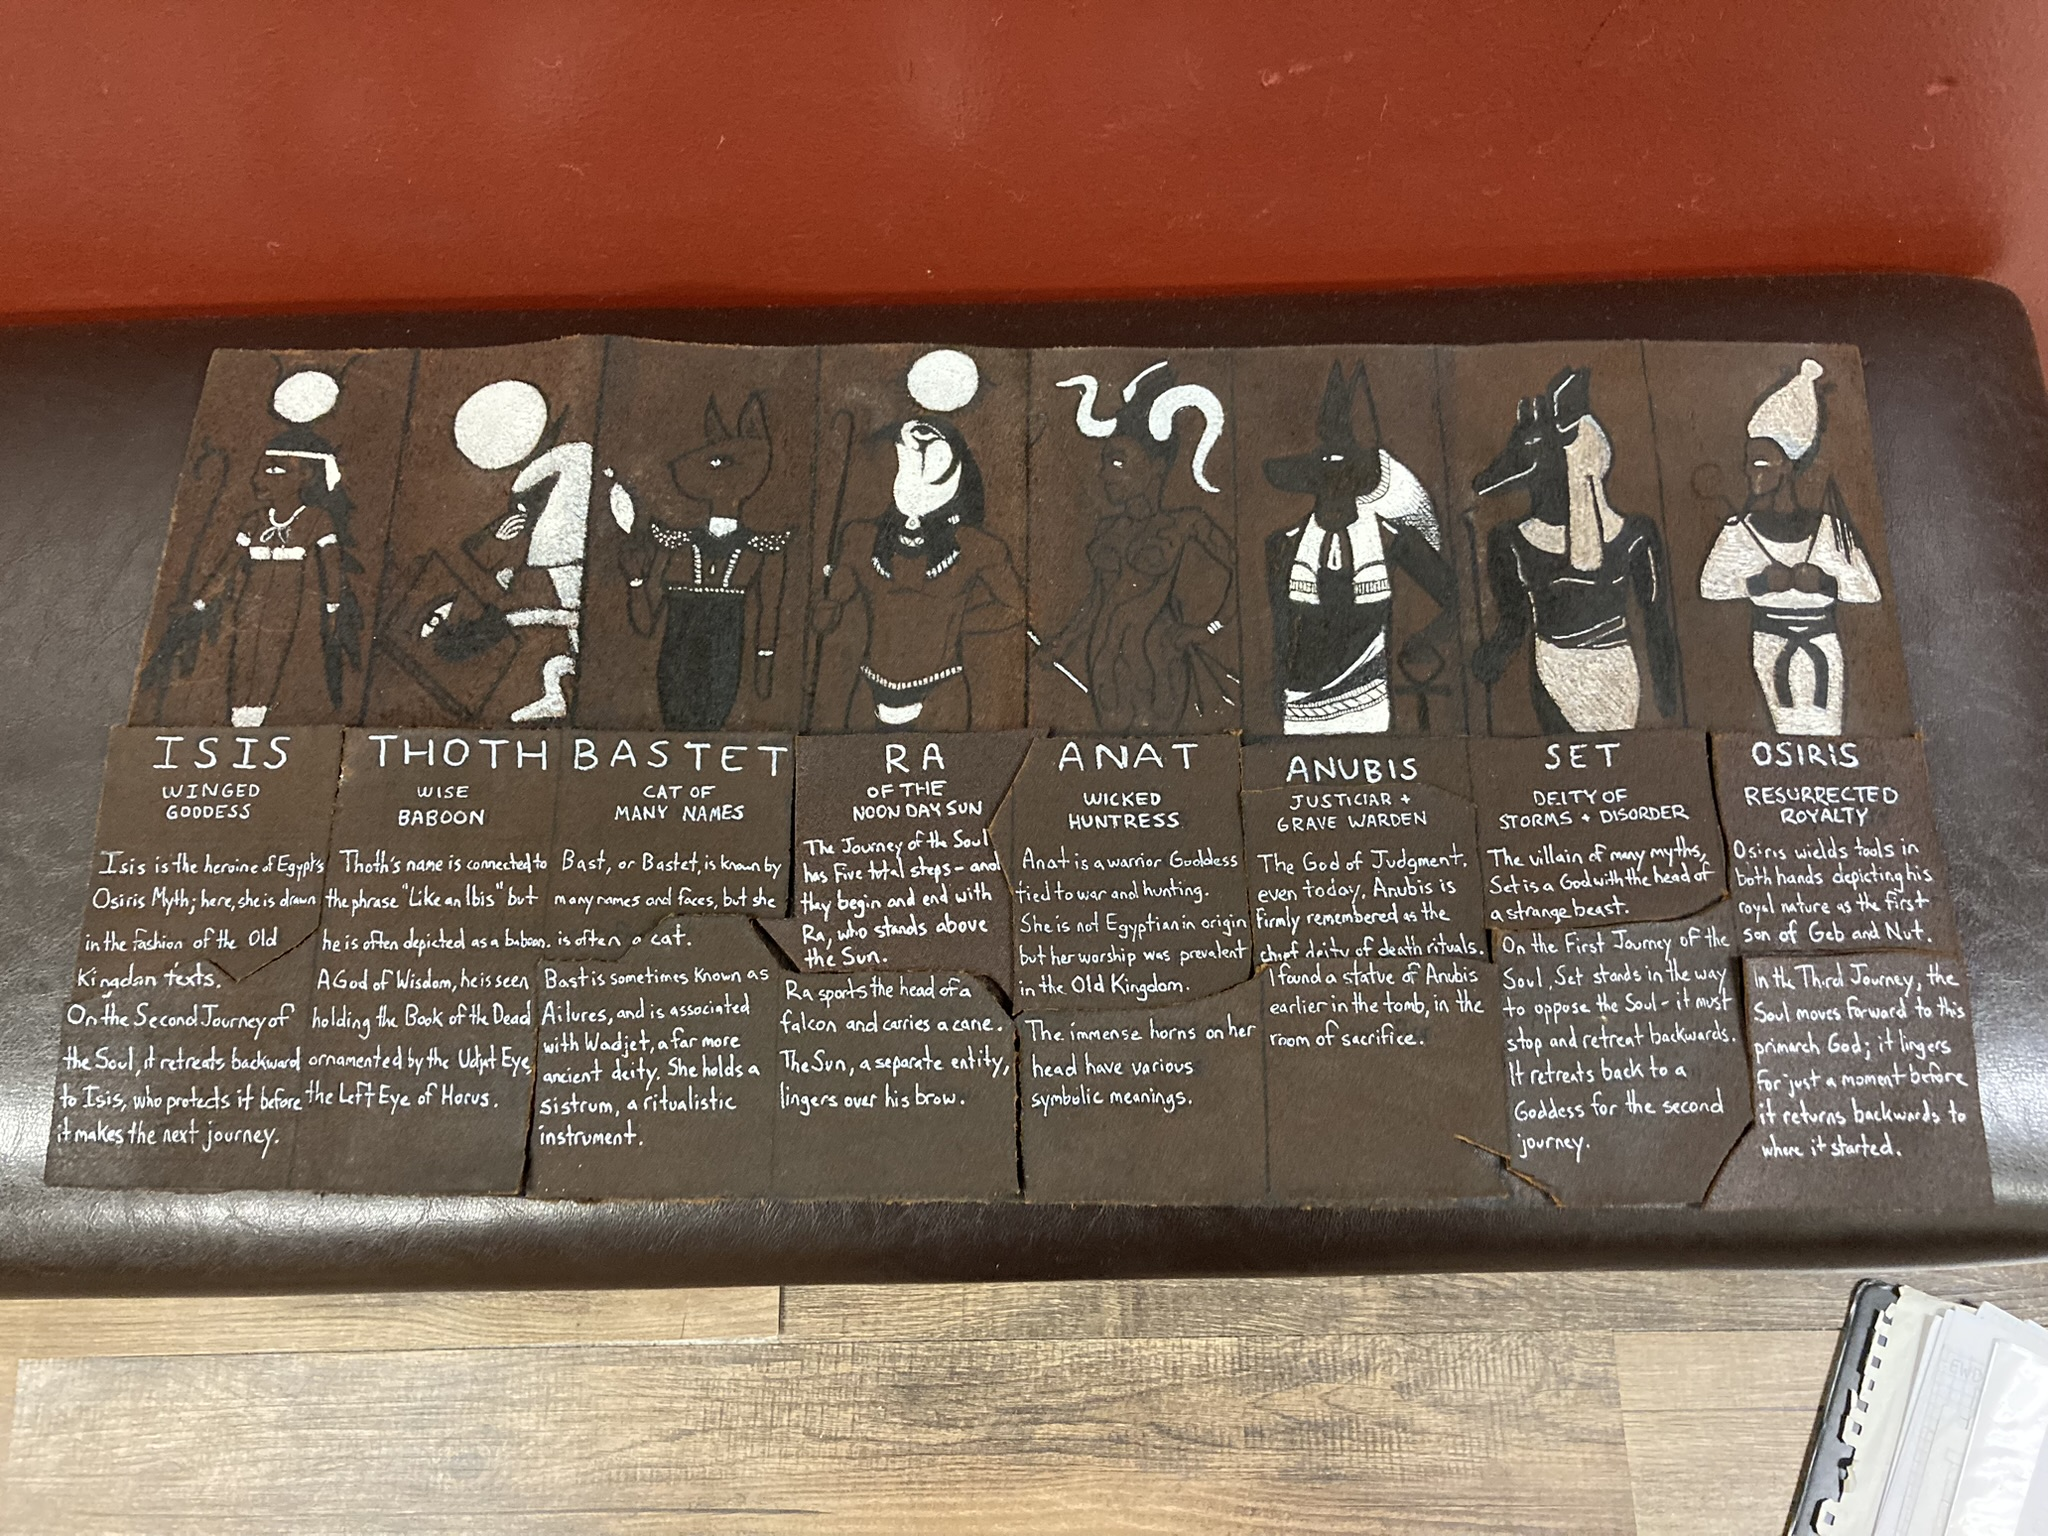
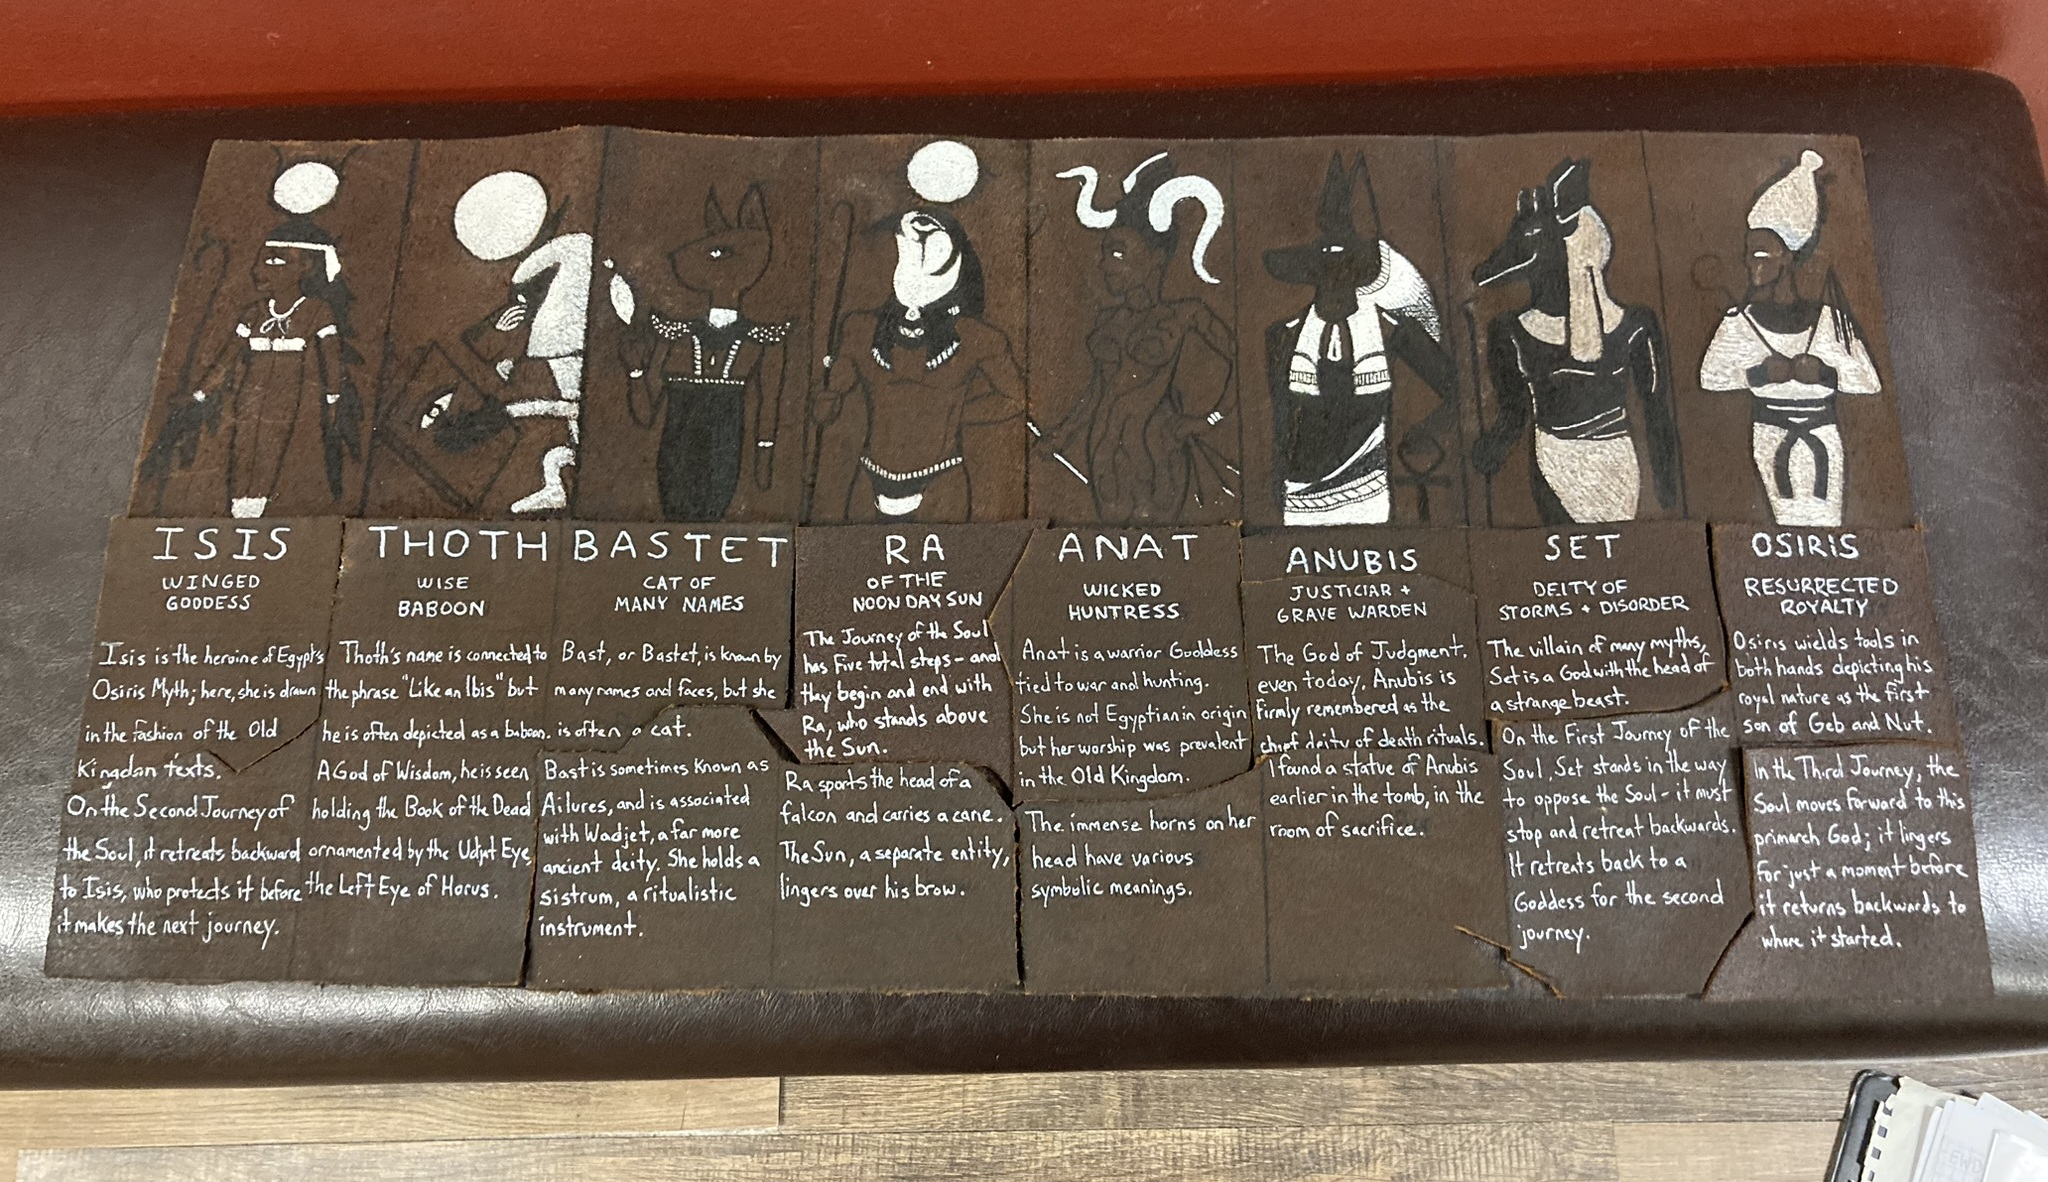
modified:   Egyptian-Tomb.markdown modified:   Projects.markdown deleted:    assets/img/2.jpg new file:   assets/img/ETDesignBoard.JPEG new file:   assets/img/ETPanel1.png new file:   assets/img/ETPanel2.JPEG new file:   assets/img/ETPanel5.jpg modified:   assets/img/ETScroll.JPEG new file:   assets

diff --git a/css/hyde.css b/css/hyde.css
@@ -141,7 +141,6 @@ a.sidebar-nav-item:focus {
 
 @media (min-width: 48em) {
   .content {
-    max-width: 38rem;
     margin-left: 20rem;
     margin-right: 2rem;
   }
@@ -149,7 +148,7 @@ a.sidebar-nav-item:focus {
 
 @media (min-width: 64em) {
   .content {
-    margin-left: 22rem;
+    margin-left: 14rem;
     margin-right: 4rem;
   }
 }